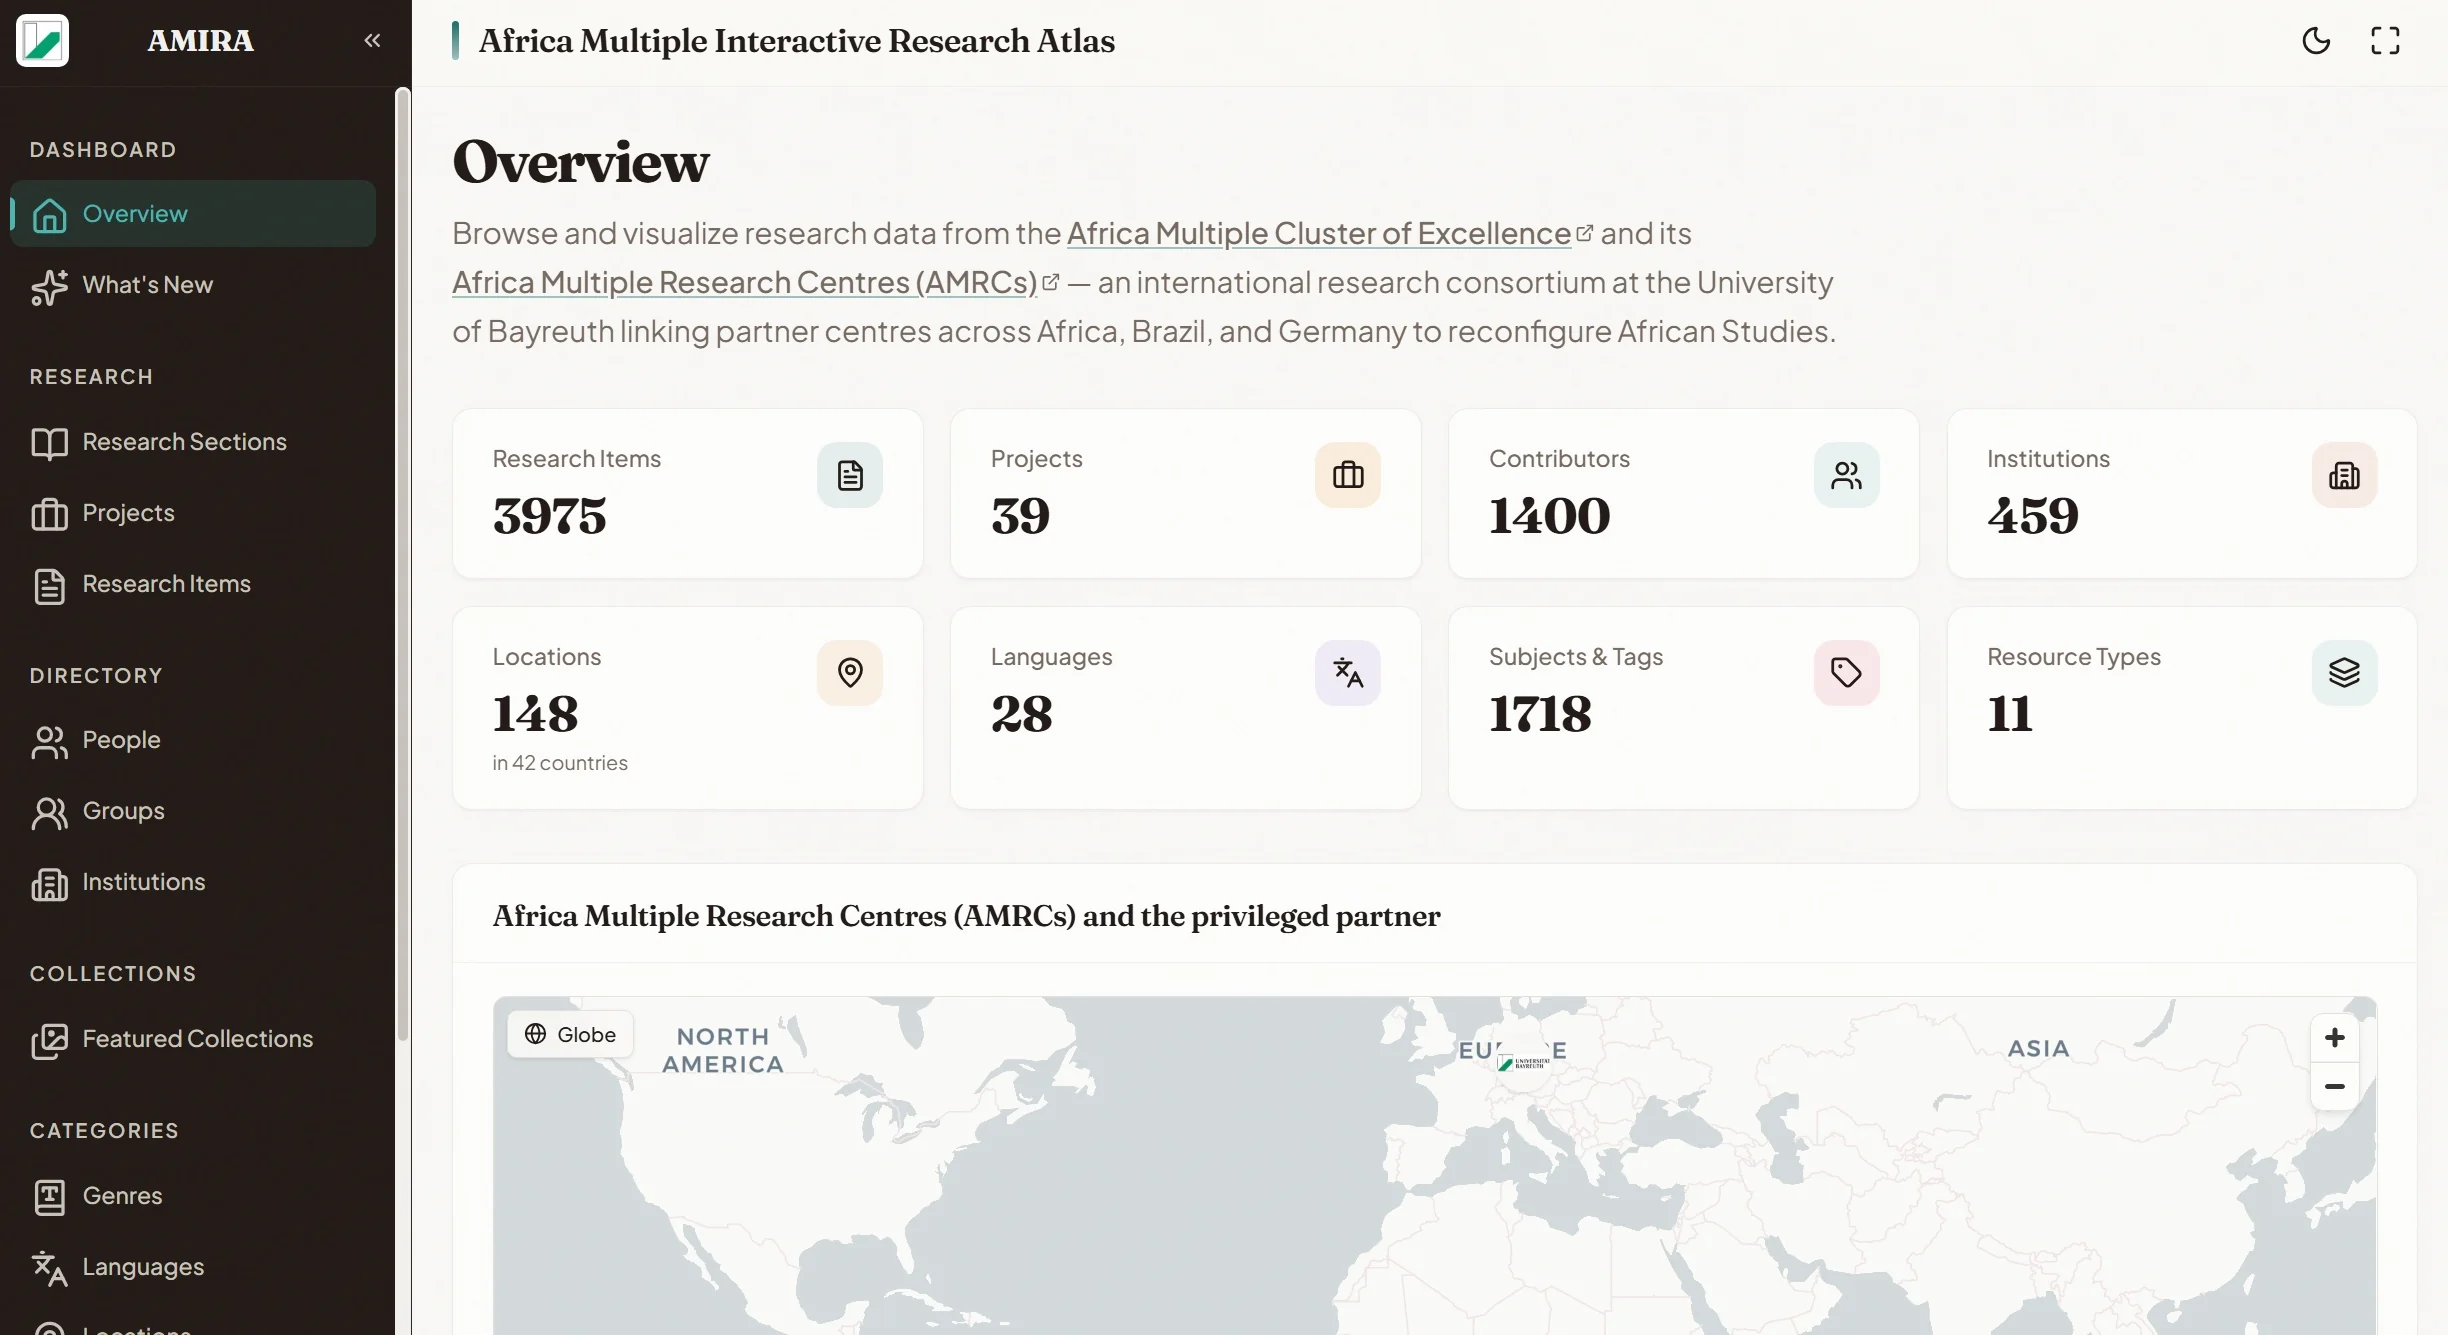
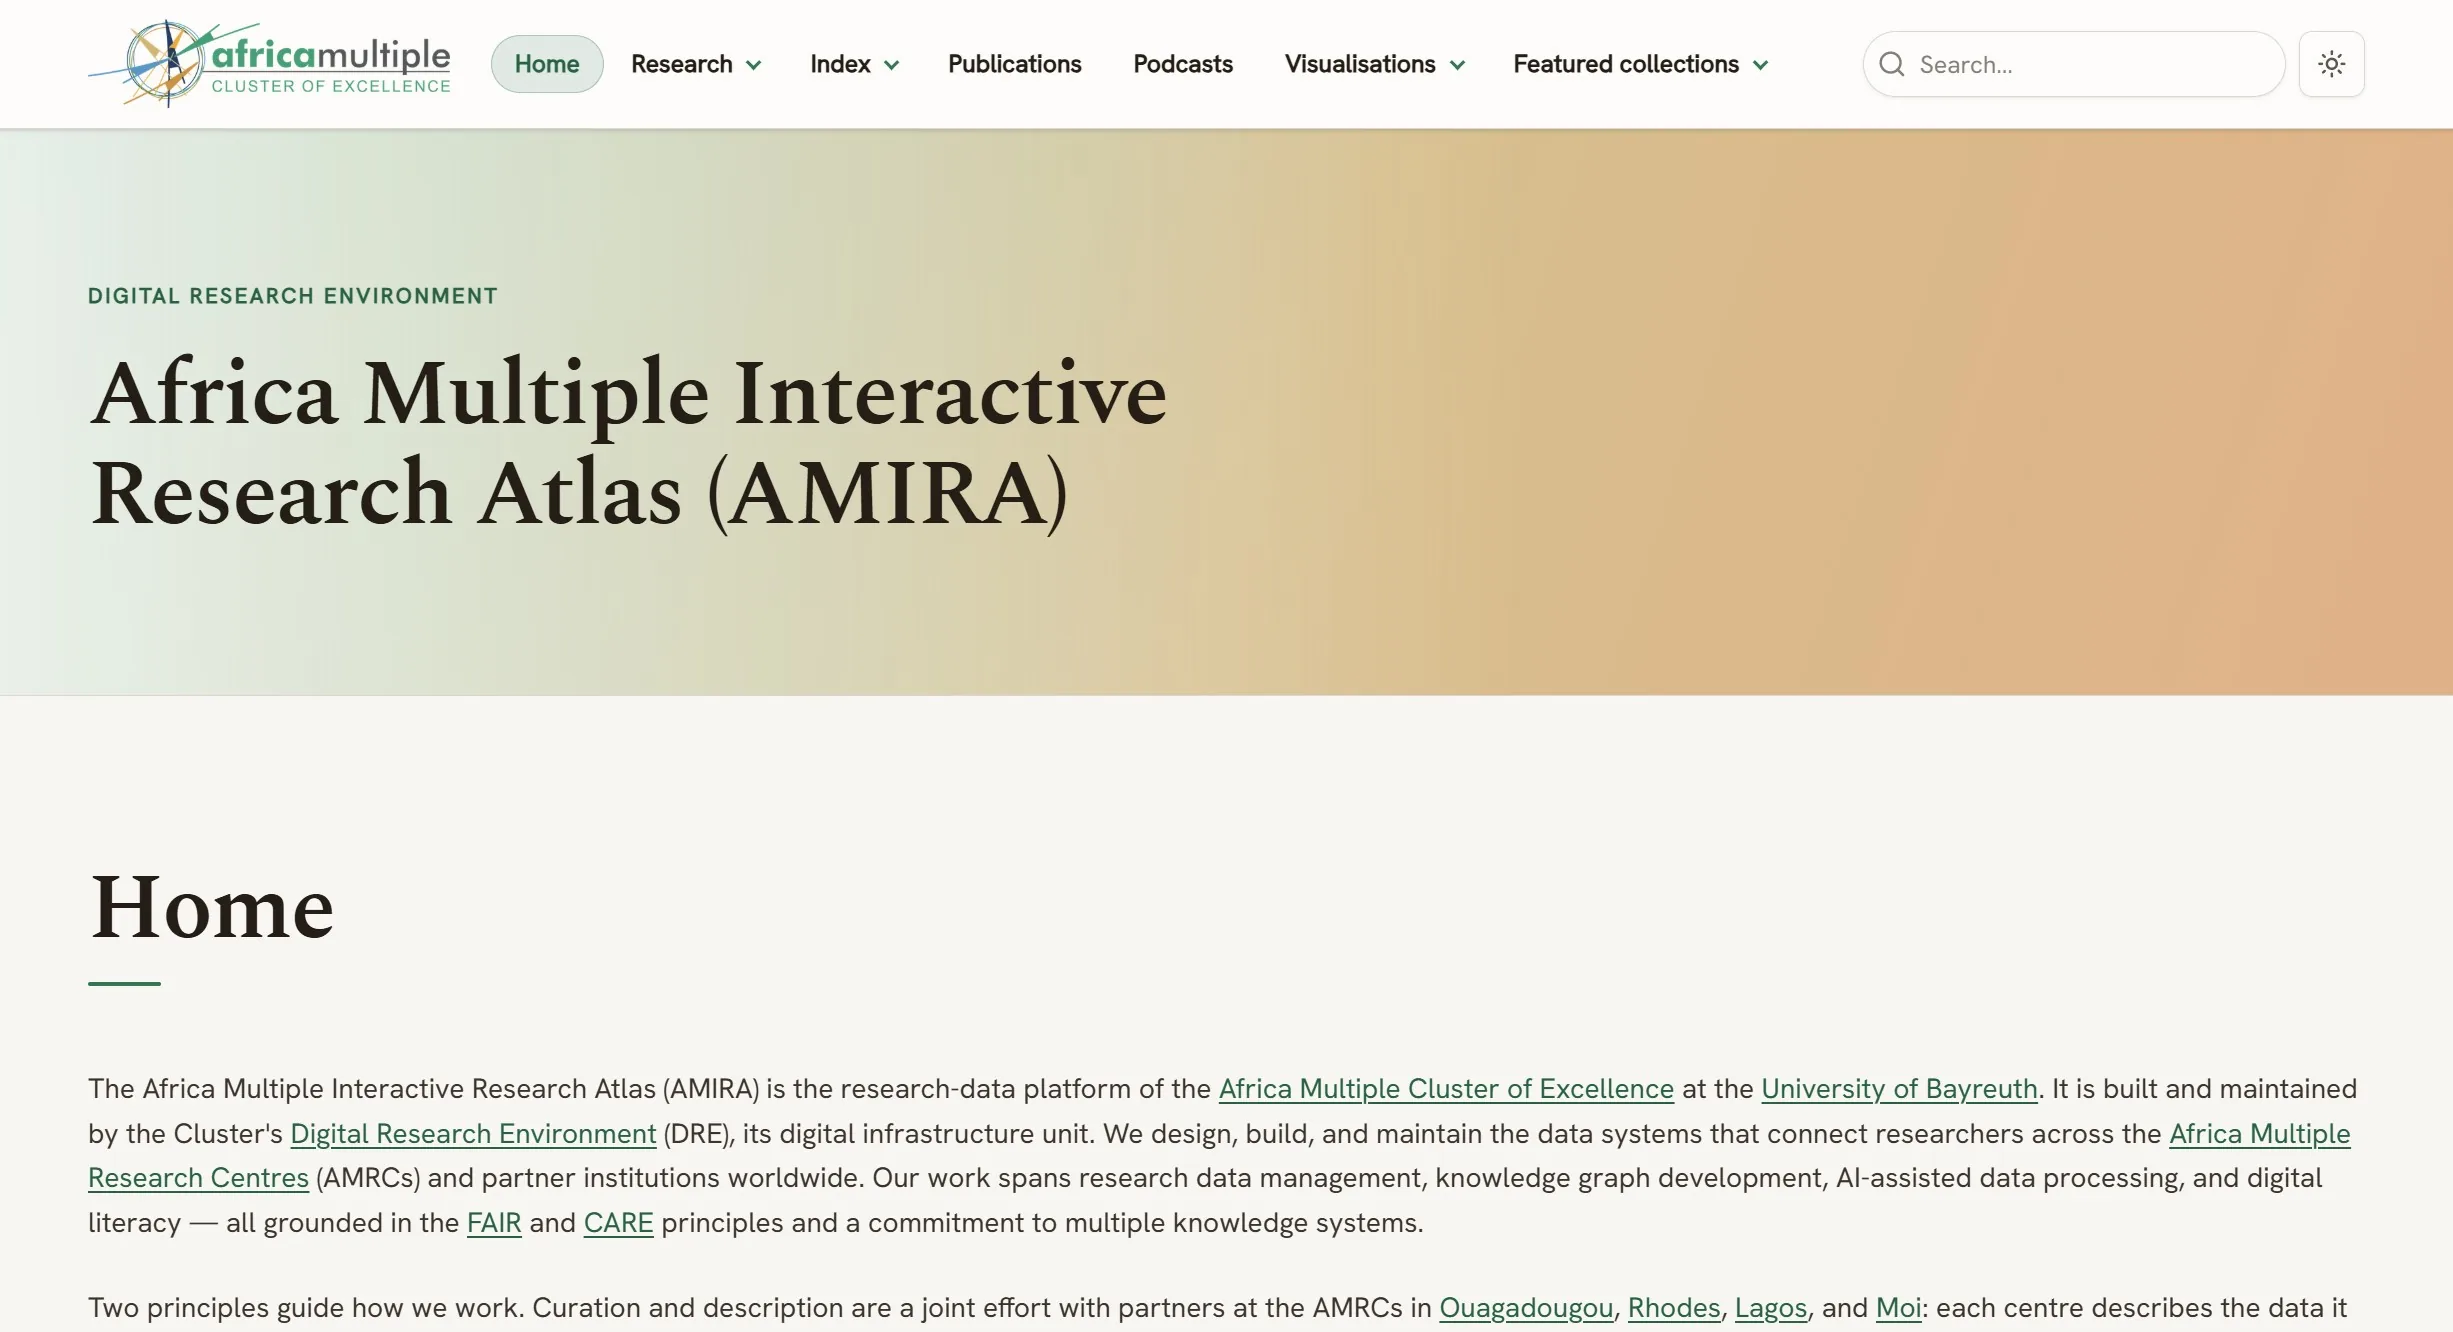
update(digital-humanities): refresh AMIRA with Omeka S framing
- Replace project image with new AMIRA screenshot (webp)
- Rewrite description: AMIRA as the Omeka S public access point, built from DRE-theme, DRE Search (Typesense), and Resource Visualizations
- Skills: drop SvelteKit + Tailwind CSS; add Omeka S, Typesense, Docker, Nginx
- Replace dashboard iframe embed with a 'Visit AMIRA' link to data.africamultiple.uni-bayreuth.de/s/amira (Omeka S sends X-Frame-Options: SAMEORIGIN, so it cannot be iframed)
- Remove now-orphaned amira.africamultiple frame-src entry from CSP

diff --git a/src/lib/data/digital-humanities/amira.ts b/src/lib/data/digital-humanities/amira.ts
@@ -6,45 +6,55 @@ export const amira: DigitalHumanitiesProject = {
 	years: '2026',
 	shortDescription:
 		'Interactive research atlas for the Africa Multiple Cluster of Excellence — browse, filter, and compare projects, people, institutions, and research items across partner centres in Africa, Brazil, and Germany.',
-	description:
-		'<p>AMIRA turns the <a href="https://www.africamultiple.uni-bayreuth.de/" target="_blank" rel="noopener noreferrer">Africa Multiple Cluster of Excellence</a>\'s research metadata into a browsable atlas of people, projects, places, and the connections between them. Based at the <a href="https://www.uni-bayreuth.de/en" target="_blank" rel="noopener noreferrer">University of Bayreuth</a>, the Cluster works with four <a href="https://www.africamultiple.uni-bayreuth.de/en/1_1-About-Us/african-cluster-centres/index.html" target="_blank" rel="noopener noreferrer">Africa Multiple Research Centres</a> (Moi University, the University of Lagos, Université Joseph Ki-Zerbo, and Rhodes University) alongside its privileged partner, the Federal University of Bahia. The dashboard covers nearly 4,000 research items, 92 projects, 1,400 contributors, and 28 languages across 42 countries.</p>' +
-		"<p>AMIRA is a discovery and visualisation layer for the Cluster's research metadata. Charts, maps, and network views make the data browsable, filterable, and comparable across people, projects, places, and time. Every entity is cross-linked — click a person, project, subject, or location to open its detail page.</p>" +
-		'<h3>What you can explore</h3>' +
-		'<ul>' +
-		'<li><strong>Who</strong>: researchers, groups, and institutions, linked through their projects and co-authored items</li>' +
-		'<li><strong>Where</strong>: items mapped by country, region, and city, with side-by-side university comparisons and country-level choropleths</li>' +
-		'<li><strong>When</strong>: project timelines across 13 research sections (Phase 1 active, Phase 2 launching June 2026), and a "What\'s New" view for the last 3, 6, or 12 months</li>' +
-		'<li><strong>What</strong>: faceted search on subject, tag, language, resource type, genre, and country</li>' +
-		'<li><strong>Collections</strong>: photo and multimedia showcases viewable as a masonry grid, a clustered map, or a zoomable timeline</li>' +
-		'<li><strong>Compare</strong>: side-by-side profiles for any two universities, projects, people, institutions, subjects, or languages</li>' +
-		'<li><strong>Connections</strong>: per-item knowledge graphs and weighted network graphs reveal co-authorship, institutional ties, and the thematic communities that cut across the archive</li>' +
-		'<li><strong>Semantic map</strong>: every item projected into 2D using Gemini embeddings — surface neighbours that share content even when no tag connects them</li>' +
-		'</ul>' +
-		'<h3>Interface</h3>' +
-		'<p>Dark mode, shareable links for any filter combination, a PNG export button on every chart, and an installable progressive web app with an offline shell so the dashboard runs on patchy connections.</p>',
+	description: `
+		<p>The Africa Multiple Interactive Research Atlas (AMIRA) is the public access point for the research metadata of the <a href="https://www.africamultiple.uni-bayreuth.de/" target="_blank" rel="noopener noreferrer">Africa Multiple Cluster of Excellence</a>. Built on <a href="https://omeka.org/s/" target="_blank" rel="noopener noreferrer">Omeka S</a> and hosted at <a href="https://data.africamultiple.uni-bayreuth.de/s/amira" target="_blank" rel="noopener noreferrer">data.africamultiple.uni-bayreuth.de/s/amira</a>, it makes the collections of the <a href="https://www.africamultiple.uni-bayreuth.de/en/1_1-About-Us/african-cluster-centres/index.html" target="_blank" rel="noopener noreferrer">Africa Multiple Research Centres</a> (AMRCs) — Université Joseph Ki-Zerbo in Ouagadougou, the University of Lagos, Moi University, and Rhodes University — and their partners searchable from one place. The Cluster is based at the <a href="https://www.uni-bayreuth.de/en" target="_blank" rel="noopener noreferrer">University of Bayreuth</a> and works with these four centres alongside its privileged partner, the Federal University of Bahia.</p>
+
+		<p>The atlas covers nearly 4,000 research items, more than 90 projects, around 1,400 associated people, and nearly 600 organisations and institutions, in 28 languages across 42 countries. Alongside the research items, it also brings together the Cluster's publications and other outputs, such as podcasts.</p>
+
+		<h3>The DRE behind AMIRA</h3>
+		<p>AMIRA is the visible layer of work carried out by the <a href="https://www.africamultiple.uni-bayreuth.de/en/1_5-Digital-Solutions1/index.html" target="_blank" rel="noopener noreferrer">Digital Research Environment (DRE)</a>, the digital infrastructure unit of the Cluster. The DRE designs and maintains the data systems that connect researchers across the AMRCs and partner institutions, grounded in the FAIR and CARE principles and a commitment to multiple knowledge systems.</p>
+		<p>Two principles shape the atlas. Curation is a joint effort: each centre describes the data it knows best, and the DRE runs the shared infrastructure that connects them. And storage stays distributed by default — data remains in its local repository, while Bayreuth holds the metadata layer that points to it. Research data becomes findable without being relocated. AMIRA is where that metadata comes together.</p>
+
+		<h3>How it's built</h3>
+		<p>AMIRA is built from three components I developed for Omeka S. They share one design system, so the search, the charts, and the pages all follow the same brand and the same light/dark theme:</p>
+		<ul>
+			<li><strong><a href="https://github.com/AM-Digital-Research-Environment/DRE-theme" target="_blank" rel="noopener noreferrer">DRE-theme</a></strong> — a custom Omeka S theme. A "Scholarly Modernism" design system in the Cluster's Uni-Grün identity, built on OKLCH design tokens, with first-class light and dark modes.</li>
+			<li><strong><a href="https://github.com/AM-Digital-Research-Environment/DRESearch" target="_blank" rel="noopener noreferrer">DRE Search</a></strong> — a Typesense-backed search layer. Full-text search with autocomplete and faceted filtering across ten corpora (research items, projects, publications, people, research sections, organisations, genres, languages, locations, and subjects &amp; tags), plus a single federated search bar that queries all of them at once and groups suggestions by type.</li>
+			<li><strong><a href="https://github.com/fmadore/ResourceVisualizations" target="_blank" rel="noopener noreferrer">Resource Visualizations</a></strong> — an Omeka S module that adds interactive charts, maps, and network graphs (ECharts and MapLibre GL) to every resource page and to collection-wide overviews. These are the same visualisations developed for the Cluster's research dashboard, ported to Omeka S.</li>
+		</ul>
+
+		<h3>What you can explore</h3>
+		<ul>
+			<li><strong>Search</strong>: full-text search with autocomplete and per-corpus facets, plus a federated search that spans every corpus at once</li>
+			<li><strong>Who</strong>: the people associated with the collections, and nearly 600 organisations (institutions and groups), linked through their projects, roles, affiliations, and co-authorships</li>
+			<li><strong>Where</strong>: items mapped by place of origin and current location, photo collections on a clustered map, and country-level choropleths</li>
+			<li><strong>When</strong>: project and research-section timelines, Gantt views of project spans, and a "What's New" feed for the last 3, 6, or 12 months</li>
+			<li><strong>What</strong>: browse and filter by resource type, genre, language, subject, tag, and target audience</li>
+			<li><strong>Collections</strong>: image-rich item sets viewable as a masonry grid, a clustered map, or a timeline, all sharing one lightbox</li>
+			<li><strong>Compare</strong>: side-by-side profiles for any two projects, people, institutions, subjects, or languages</li>
+			<li><strong>Connections</strong>: per-item knowledge graphs, collaboration networks, and "discursive communities" that cluster the subjects appearing together across the archive</li>
+			<li><strong>Publications</strong>: bibliographic analytics over the Cluster's bibliography — authors, venues, keywords, and co-authorship networks</li>
+		</ul>
+
+		<h3>Interface</h3>
+		<p>Light and dark modes, a public Omeka S REST API behind every page, and a save-as-image button on each chart.</p>
+
+		<p><a href="https://data.africamultiple.uni-bayreuth.de/s/amira" target="_blank" rel="noopener noreferrer" class="btn btn-primary">Visit AMIRA →</a></p>
+	`,
 	imageUrl: `/images/digital-humanities/amira.webp`,
 	featured: true,
 	order: 2,
 	skills: [
-		'SvelteKit',
+		'Omeka S',
+		'Typesense',
+		'Docker',
+		'Nginx',
 		'Svelte 5',
 		'TypeScript',
 		'ECharts',
 		'MapLibre GL',
-		'Tailwind CSS',
 		'MongoDB',
 		'Data visualization',
 		'Network graphs'
-	],
-	embeddableContent: [
-		{
-			type: 'iframe',
-			id: 'amira-main-embed',
-			src: 'https://amira.africamultiple.uni-bayreuth.de/',
-			scrolling: 'yes',
-			allowfullscreen: true,
-			showTitle: true,
-			containerClass: 'iframe-container-aspect iframe-container-aspect-16-9'
-		}
 	]
 };

diff --git a/src/app.html b/src/app.html
@@ -31,7 +31,7 @@
 		font-src 'self' https://fonts.gstatic.com;
 		img-src 'self' data: https: blob:;
 		connect-src 'self' https://*.google-analytics.com https://*.analytics.google.com https://*.googletagmanager.com https://api.iconify.design https://api.maptiler.com https://zenodo.org https://*.cartocdn.com;
-		frame-src 'self' https://fmadore.github.io https://amira.africamultiple.uni-bayreuth.de https://cdn.knightlab.com;
+		frame-src 'self' https://fmadore.github.io https://cdn.knightlab.com;
 		worker-src 'self' blob:;
 		base-uri 'self';
 		form-action 'self';